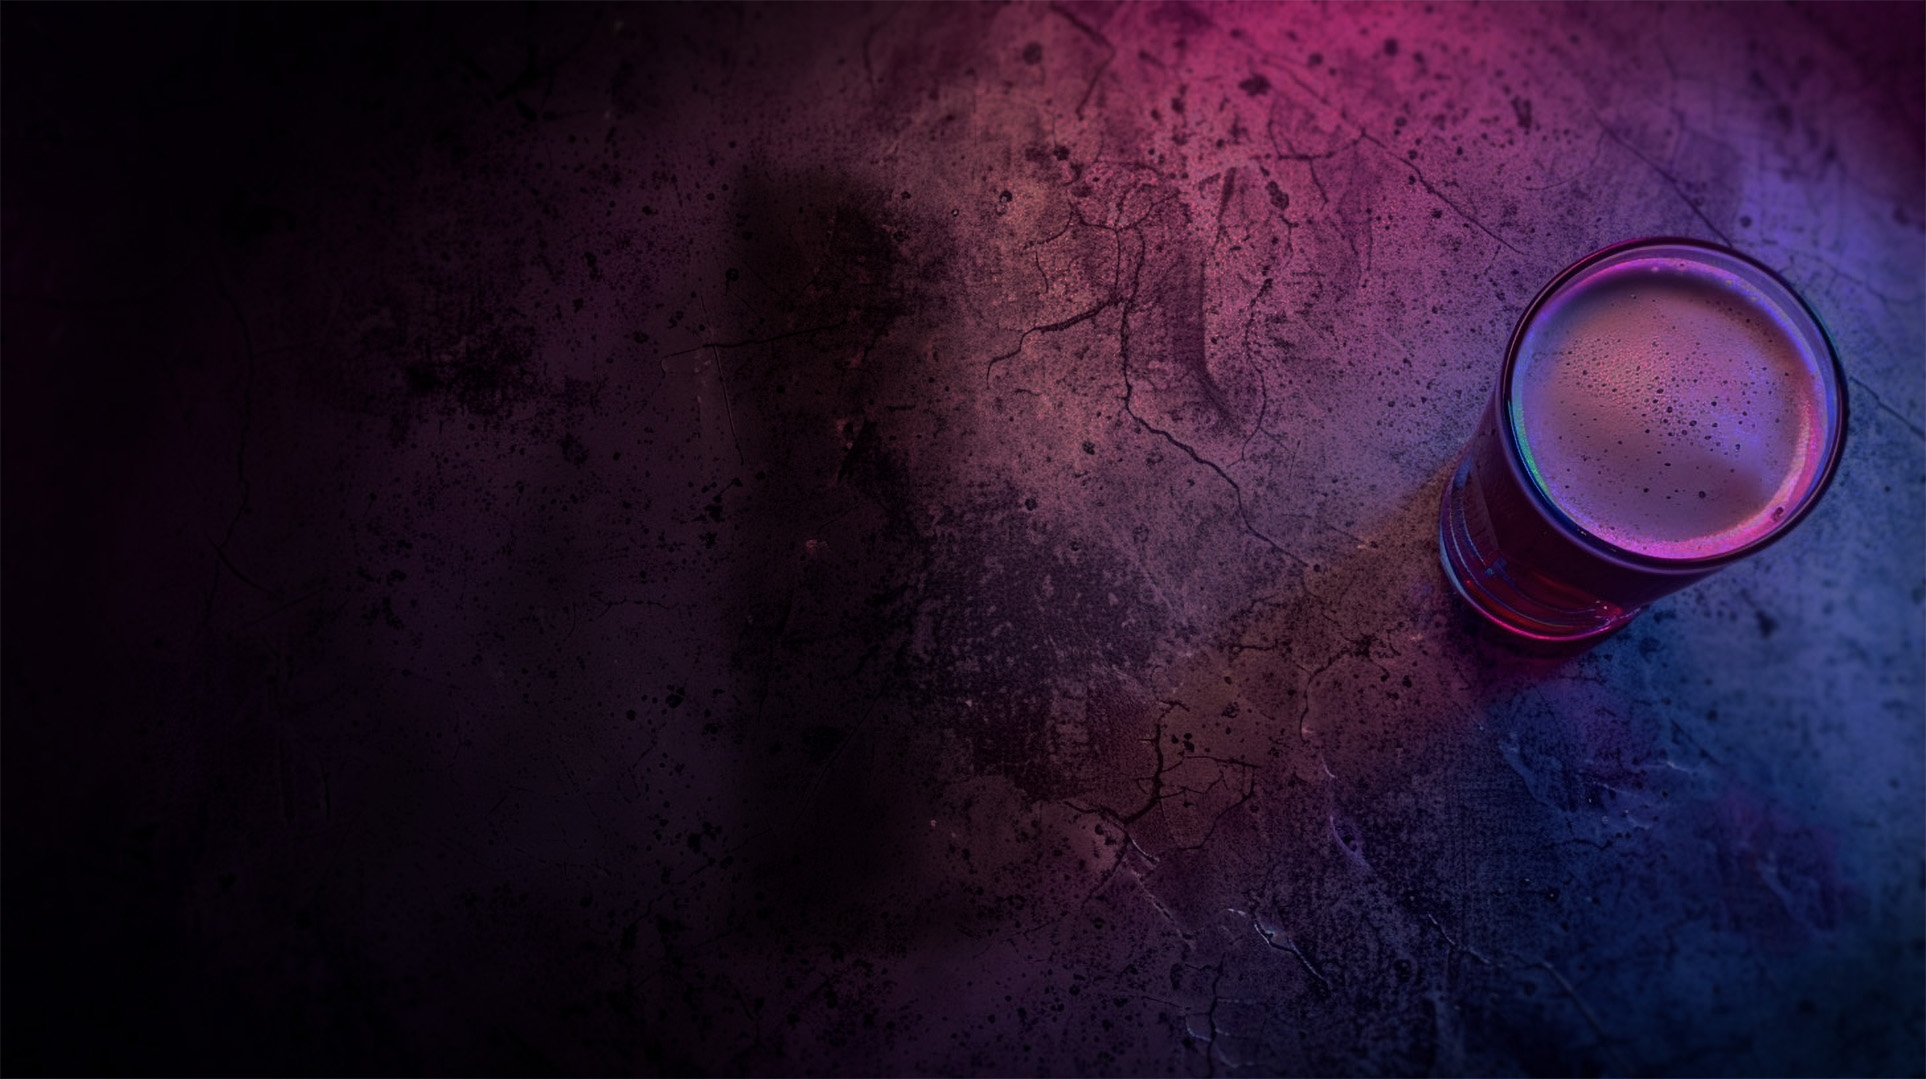
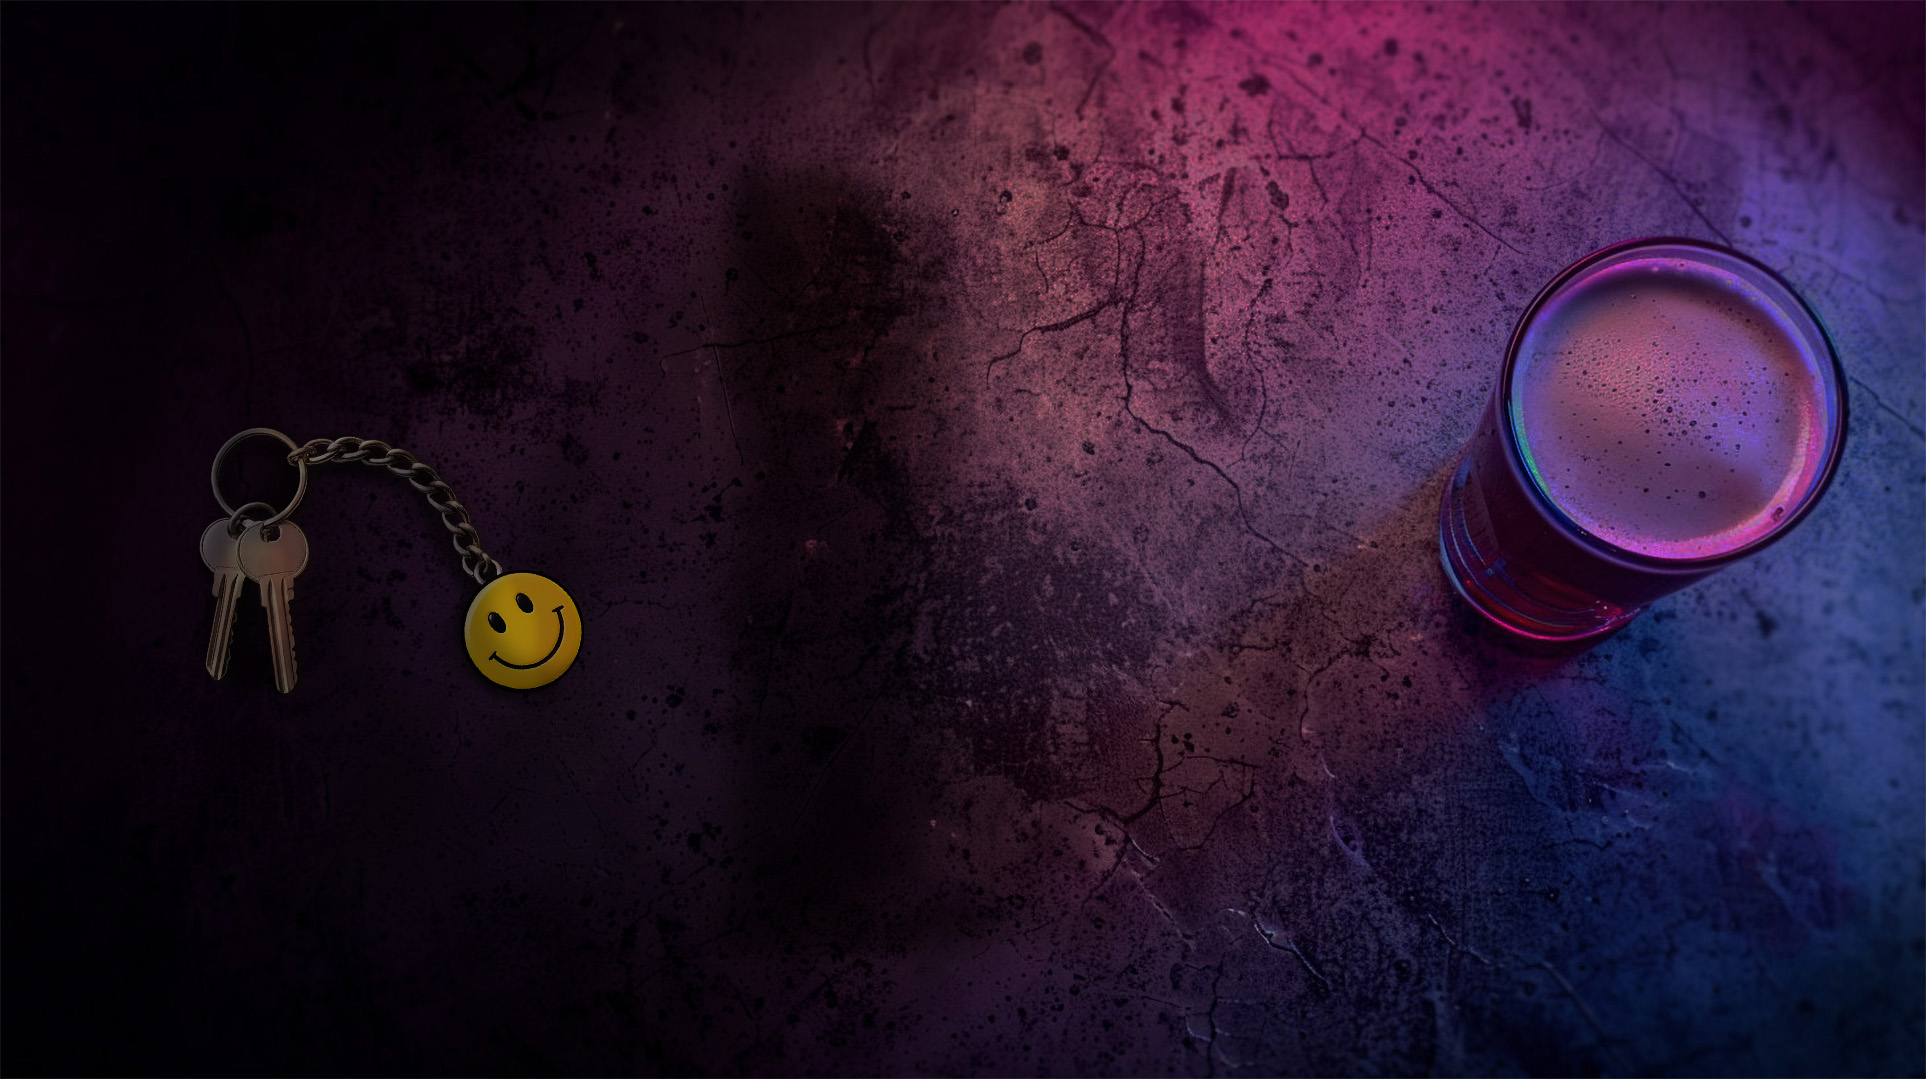
added keychain to bg

Changed region(s): [[0.0935, 0.4588, 0.1869, 0.6423], [0.2181, 0.5199, 0.3115, 0.6423], [0.1246, 0.3976, 0.2492, 0.5199]]

diff --git a/css/style.css b/css/style.css
@@ -90,7 +90,7 @@ body {
     display: flex;
     align-items: center;
     justify-content: center;
-    background: url("../assets/img/bg2.jpg") center / cover no-repeat;
+    background: url("../assets/img/bg3.jpg") center / cover no-repeat;
     font-family: var(--font-base);
     color: var(--color-text);
     position: relative;
